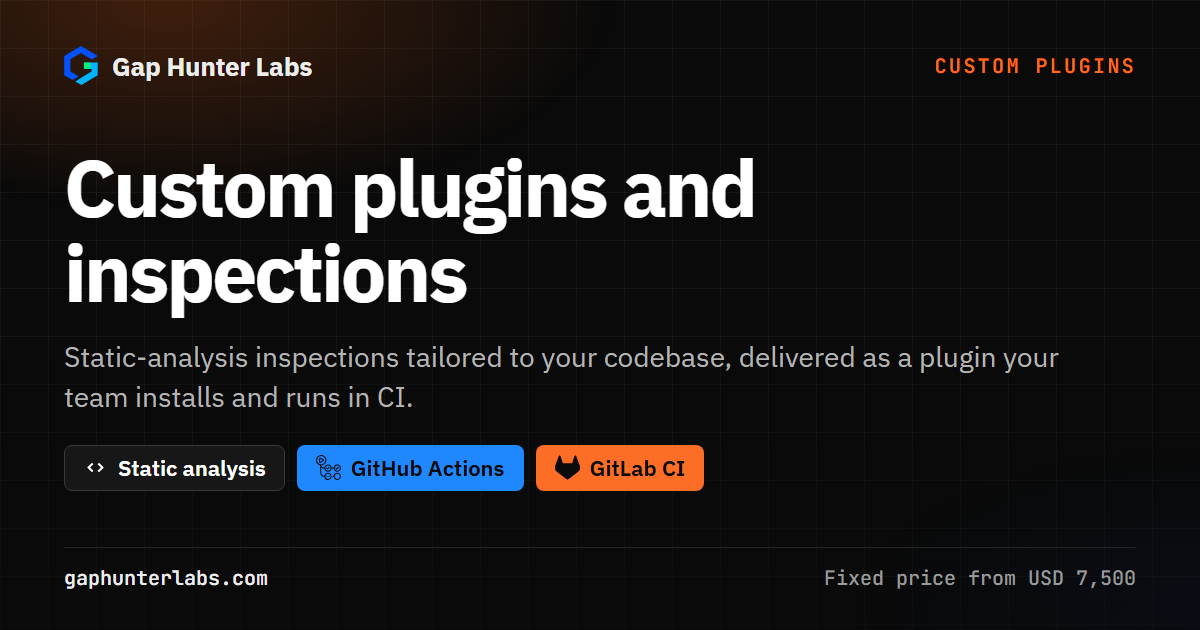
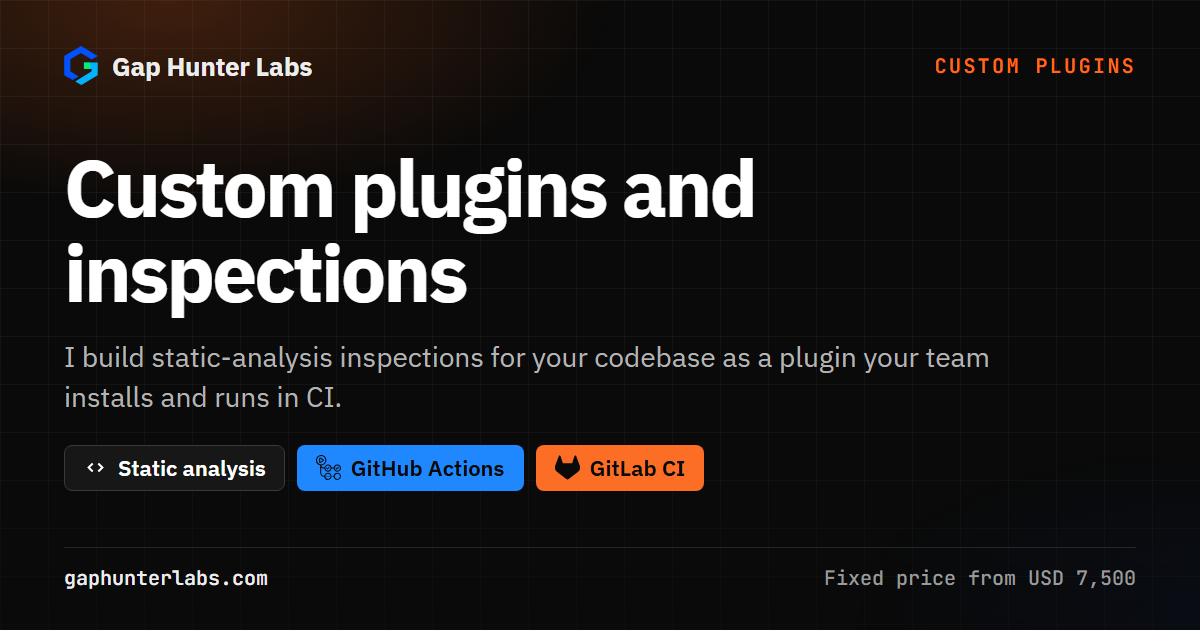
Social cards: write the text of the images in the first person
The home card still read "Find the gap. Understand the cause. Build the fix.",
the imperatives that the hero no longer uses, and several cards described my
work in the passive ("traced to their root cause and fixed", "Bugs filed in...").
Twelve cards, in English and Spanish, now say what I do: "I find the gap. I
trace the cause. I build the fix.", "Write to me about audits...", "Bugs I filed
in...". Only those 24 images are rendered again.

The cache version stays at 4: these images were published today, so networks
have barely cached them, and a bump would rewrite the head of every page.

Changed region(s): [[0.0308, 0.5429, 0.8942, 0.6635]]

diff --git a/pipeline/build_page_og.py b/pipeline/build_page_og.py
@@ -131,14 +131,14 @@ def page(stem, layout, en, es):
 # (\n = line break), `lede` one short line of purpose, `badges` keys from og_kit.REG, `note` the footer line.
 PAGES = [
     page("og-image", "home",
-         dict(label="Engineering practice of Joel Díaz", h1="Find the gap.\nUnderstand the cause.\nBuild the fix.",
-              lede="Performance, security and reliability failures in developer tools and open-source software, traced to their root cause and fixed.",
+         dict(label="Engineering practice of Joel Díaz", h1="I find the gap.\nI trace the cause.\nI build the fix.",
+              lede="I investigate performance, security and reliability failures in developer tools and open-source software, and I fix them at the root cause.",
               badges=["static", "perf", "security", "reliability"], gap_label="GAP", fix_label="FIX",
               gap_ref="lsp4ij#1540", gap_text="A UI-thread violation in Red Hat's LSP4IJ",
               fix_ref="commit f38259550e", fix_text="Fixed by the maintainer after the report",
               note="Fixed-scope engagements from USD 4,500"),
-         dict(label="Estudio de ingeniería de Joel Díaz", h1="Encuentra la brecha.\nEntiende la causa.\nConstruye la solución.",
-              lede="Fallas de rendimiento, seguridad y fiabilidad en herramientas de desarrollo y código abierto, rastreadas hasta su causa raíz y corregidas.",
+         dict(label="Estudio de ingeniería de Joel Díaz", h1="Encuentro la brecha.\nRastreo la causa.\nConstruyo la corrección.",
+              lede="Investigo fallas de rendimiento, seguridad y fiabilidad en herramientas de desarrollo y código abierto, y las corrijo en su causa raíz.",
               badges=["static", "perf", "security", "reliability"], gap_label="BRECHA", fix_label="SOLUCIÓN",
               gap_ref="lsp4ij#1540", gap_text="Una violación del hilo de UI en LSP4IJ de Red Hat",
               fix_ref="commit f38259550e", fix_text="Corregido por el mantenedor tras el reporte",
@@ -163,45 +163,45 @@ PAGES = [
               ext_note="Extendida: USD 15.000 · 15 días hábiles", note="El mismo método halló congelamientos en IntelliJ Platform")),
     page("og-dependency-security", "hero",
          dict(label="Security review", h1="Dependency and CI/CD\nsecurity review",
-              lede="A read-only review of your dependencies and CI/CD workflows: known CVEs, dependency confusion and workflow permissions.",
+              lede="I review your dependencies and CI/CD workflows, read-only: known CVEs, dependency confusion and workflow permissions.",
               badges=["security"], note="Fixed price from USD 4,800"),
          dict(label="Revisión de seguridad", h1="Revisión de seguridad de\ndependencias y CI/CD",
-              lede="Una revisión de solo lectura de tus dependencias y flujos de CI/CD: CVE conocidos, confusión de dependencias y permisos de workflows.",
+              lede="Reviso tus dependencias y flujos de CI/CD, en solo lectura: CVE conocidos, confusión de dependencias y permisos de workflows.",
               badges=["security"], note="Precio fijo desde USD 4.800")),
     page("og-custom-plugins", "hero",
          dict(label="Custom plugins", h1="Custom plugins and\ninspections",
-              lede="Static-analysis inspections tailored to your codebase, delivered as a plugin your team installs and runs in CI.",
+              lede="I build static-analysis inspections for your codebase as a plugin your team installs and runs in CI.",
               badges=["static", "actions", "gitlab"], note="Fixed price from USD 7,500"),
          dict(label="Plugins a medida", h1="Plugins e inspecciones\na medida",
-              lede="Inspecciones de análisis estático a medida de tu código, entregadas como un plugin que tu equipo instala y corre en CI.",
+              lede="Construyo inspecciones de análisis estático para tu código como un plugin que tu equipo instala y corre en CI.",
               badges=["static", "actions", "gitlab"], note="Precio fijo desde USD 7.500")),
     page("og-plugin-updates", "hero",
          dict(label="IDE compatibility", h1="Plugin updates for\nnew IDE versions",
-              lede="Your JetBrains plugin built and verified against the IDE versions you support: removed APIs, Kotlin K2 and Plugin Verifier failures.",
+              lede="I build and verify your JetBrains plugin against the IDE versions you support: removed APIs, Kotlin K2 and Plugin Verifier failures.",
               badges=["jetbrains", "kotlin", "gradle"], note="Fixed price from USD 4,500"),
          dict(label="Compatibilidad del IDE", h1="Actualización de plugins\npara nuevos IDE",
-              lede="Tu plugin de JetBrains compilado y verificado contra las versiones del IDE que soportas: API removidas, Kotlin K2 y fallos del Plugin Verifier.",
+              lede="Compilo y verifico tu plugin de JetBrains contra las versiones del IDE que soportas: API removidas, Kotlin K2 y fallos del Plugin Verifier.",
               badges=["jetbrains", "kotlin", "gradle"], note="Precio fijo desde USD 4.500")),
     page("og-catalog", "hero",
          dict(label="Plugin catalog", h1="JetBrains & VS Code plugins\nfor real developer gaps",
-              lede="Every Gap Hunter Labs plugin for JetBrains IDEs and VS Code: filter by category and price and see the gap each one fixes.",
+              lede="Every plugin I build for JetBrains IDEs and VS Code: filter by category and price and see the gap each one fixes.",
               badges=["jetbrains", "vscode", "free", "freemium", "paid"], note="Filter by category, platform and price"),
          dict(label="Catálogo de plugins", h1="Plugins para JetBrains y VS Code\nque resuelven brechas reales",
-              lede="Todos los plugins de Gap Hunter Labs para IDE de JetBrains y VS Code: filtra por categoría y precio y mira la brecha que resuelve cada uno.",
+              lede="Todos los plugins que construyo para IDE de JetBrains y VS Code: filtra por categoría y precio y mira la brecha que resuelve cada uno.",
               badges=["jetbrains", "vscode", "free", "freemium", "paid"], note="Filtra por categoría, plataforma y precio")),
     page("og-methodology", "hero",
          dict(label="Methodology", h1="How a gap becomes a fix",
-              lede="How performance, security and reliability problems are investigated and fixed, and how the catalog data is reported.",
+              lede="How I investigate and fix performance, security and reliability problems, and how I report the catalog data.",
               badges=["perf", "security", "reliability"], note="Investigate · Reproduce · Fix · Report"),
          dict(label="Metodología", h1="De la brecha a la solución",
-              lede="Cómo se investigan y corrigen los problemas de rendimiento, seguridad y fiabilidad, y cómo se reportan los datos del catálogo.",
+              lede="Cómo investigo y corrijo los problemas de rendimiento, seguridad y fiabilidad, y cómo reporto los datos del catálogo.",
               badges=["perf", "security", "reliability"], note="Investigar · Reproducir · Corregir · Reportar")),
     page("og-evidence", "hero",
          dict(label="Engineering & Evidence", h1="Everything that backs the work",
-              lede="Root-cause analysis and fixes in the IntelliJ Platform, security reports fixed by maintainers and plugin case studies, each with a public source.",
+              lede="My root-cause analysis and fixes in the IntelliJ Platform, security reports that maintainers fixed and my plugin case studies, each with a public source.",
               badges=["platform", "github", "security"], note="Tickets · Security reports · Audits · Case studies"),
          dict(label="Ingeniería y evidencia", h1="Todo lo que respalda el trabajo",
-              lede="Análisis de causa raíz y correcciones en IntelliJ Platform, reportes de seguridad corregidos por mantenedores y casos de estudio, cada uno con fuente pública.",
+              lede="Mi análisis de causa raíz y mis correcciones en IntelliJ Platform, reportes de seguridad que corrigieron los mantenedores y mis casos de estudio, cada uno con fuente pública.",
               badges=["platform", "github", "security"], note="Tickets · Reportes · Auditorías · Casos")),
     page("og-evidence-case-studies", "hero",
          dict(label="Case studies", h1="Plugins with the strongest evidence",
@@ -212,38 +212,38 @@ PAGES = [
               badges=["static", "perf", "security"], note="Ingeniería y evidencia")),
     page("og-evidence-jetbrains-tickets", "hero",
          dict(label="JetBrains Platform tickets", h1="Root-cause reports in the\nIntelliJ Platform",
-              lede="Bugs filed in JetBrains' YouTrack after a catalog check found them in IntelliJ's source, plus root-cause analysis on existing tickets.",
+              lede="Bugs I filed in JetBrains' YouTrack after my catalog check found them in IntelliJ's source, plus my root-cause analysis on existing tickets.",
               badges=["idea", "platform"], note="Engineering & Evidence"),
          dict(label="Tickets de JetBrains Platform", h1="Reportes de causa raíz en\nIntelliJ Platform",
-              lede="Errores reportados en el YouTrack de JetBrains tras hallarlos un control del catálogo en el código de IntelliJ, y análisis de causa raíz en tickets existentes.",
+              lede="Errores que reporté en el YouTrack de JetBrains tras hallarlos mi control del catálogo en el código de IntelliJ, y mi análisis de causa raíz en tickets existentes.",
               badges=["idea", "platform"], note="Ingeniería y evidencia")),
     page("og-evidence-security-reports", "hero",
          dict(label="Open-source security reports", h1="Vulnerable dependencies,\nfixed by maintainers",
-              lede="Advisories reported to open-source maintainers, each checked against the exact pinned version in OSV and listed once fixed.",
+              lede="Advisories I reported to open-source maintainers, each checked against the exact pinned version in OSV and listed once fixed.",
               badges=["github", "security"], note="Engineering & Evidence"),
          dict(label="Reportes de seguridad", h1="Dependencias vulnerables,\ncorregidas por sus mantenedores",
-              lede="Avisos reportados a mantenedores de código abierto, cada uno verificado contra la versión exacta fijada en OSV y publicado cuando se corrigió.",
+              lede="Avisos que reporté a mantenedores de código abierto, cada uno verificado contra la versión exacta fijada en OSV y publicado cuando se corrigió.",
               badges=["github", "security"], note="Ingeniería y evidencia")),
     page("og-evidence-third-party-audits", "hero",
          dict(label="Third-party plugin audits", h1="Findings in other vendors'\nplugins, fixed by them",
-              lede="Performance findings in third-party IntelliJ plugins, reported with the root cause and a suggested fix, listed once public.",
+              lede="Performance findings I reported in third-party IntelliJ plugins, with the root cause and a suggested fix, listed once public.",
               badges=["platform", "perf", "audit"], note="Engineering & Evidence"),
          dict(label="Auditorías de plugins de terceros", h1="Hallazgos en plugins de otros\nproveedores, corregidos por ellos",
-              lede="Hallazgos de rendimiento en plugins de terceros para IntelliJ, reportados con la causa raíz y un arreglo sugerido, publicados cuando son públicos.",
+              lede="Hallazgos de rendimiento que reporté en plugins de terceros para IntelliJ, con la causa raíz y un arreglo sugerido, publicados cuando son públicos.",
               badges=["platform", "perf", "audit"], note="Ingeniería y evidencia")),
     page("og-contact", "hero",
          dict(label="Contact", h1="Get in touch",
-              lede="Audits and engineering work, plugin support or partnerships, by email, GitHub, JetBrains Marketplace or LinkedIn.",
+              lede="Write to me about audits and engineering work, plugin support or partnerships, by email, GitHub, JetBrains Marketplace or LinkedIn.",
               badges=["email", "github", "marketplace", "linkedin"], note="Email · GitHub · JetBrains · LinkedIn"),
          dict(label="Contacto", h1="Ponte en contacto",
-              lede="Auditorías y trabajo de ingeniería, soporte de plugins o alianzas, por correo, GitHub, JetBrains Marketplace o LinkedIn.",
+              lede="Escríbeme sobre auditorías y trabajo de ingeniería, soporte de plugins o alianzas, por correo, GitHub, JetBrains Marketplace o LinkedIn.",
               badges=["email", "github", "marketplace", "linkedin"], note="Correo · GitHub · JetBrains · LinkedIn")),
     page("og-security", "hero",
-         dict(label="Security", h1="What the plugins do with your\ncode, and what they don't",
-              lede="What the plugins do and don't do with your code, how vulnerabilities are reported, and where certification stands.",
+         dict(label="Security", h1="What my plugins do with your\ncode, and what they don't",
+              lede="What my plugins do and don't do with your code, how I handle vulnerability reports, and where certification stands.",
               badges=["security", "github"], note="Responsible disclosure · No telemetry"),
-         dict(label="Seguridad", h1="Qué hacen los plugins con tu\ncódigo, y qué no",
-              lede="Qué hacen y qué no hacen los plugins con tu código, cómo se reportan las vulnerabilidades y en qué punto está la certificación.",
+         dict(label="Seguridad", h1="Qué hacen mis plugins con tu\ncódigo, y qué no",
+              lede="Qué hacen y qué no hacen mis plugins con tu código, cómo manejo los reportes de vulnerabilidades y en qué punto está la certificación.",
               badges=["security", "github"], note="Divulgación responsable · Sin telemetría")),
     page("og-privacy", "hero",
          dict(label="Privacy", h1="A short privacy policy",
